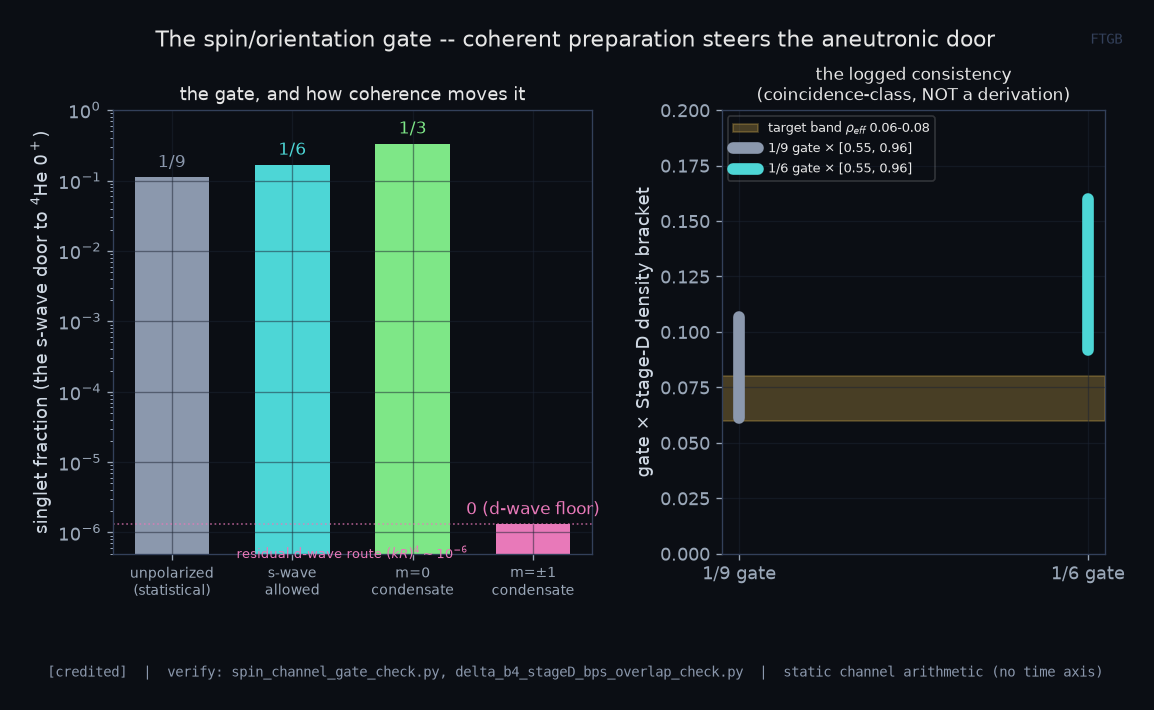
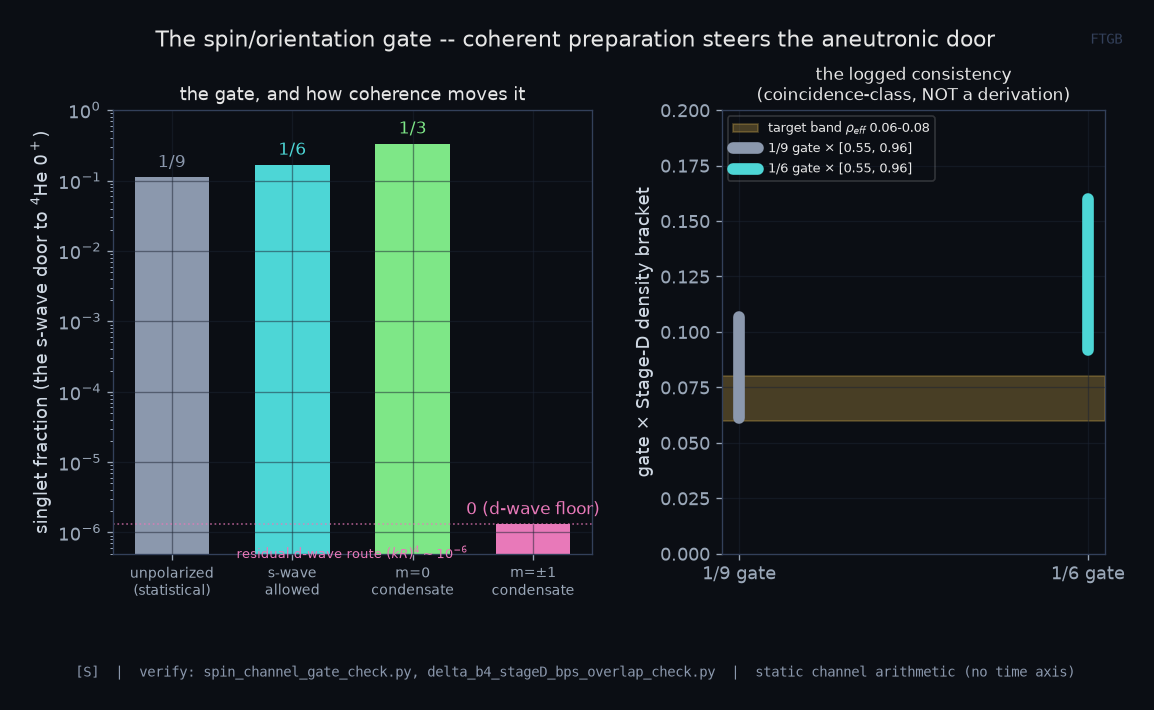
Independent audit fixes: 1 load-bearing citation error + 11 hedge/precision corrections
The rigorous multi-agent audit (re-run after the session-cap reset; 14
agents, 0 errors, scoped to the 2026-09-15 additions) independently
corroborated the inline pass (Numeric A-, Physics A, Coherence A) and
caught what self-review structurally missed:

HIGH -- a misattributed load-bearing source. "Adam-Sanchez-Guillen-
Wereszczynski (2010), PRL 105, 232001" is WRONG for the BPS Skyrme paper
(that citation is a hidden-charm-resonance PRL). The correct venue,
verified independently against arXiv + ScienceDirect, is Phys. Lett. B
691, 105 (2010) [arXiv:1001.4544]. Fixed in all 6 occurrences (both new
papers + 4 delta-program check docstrings; the error was pre-existing in
the docstrings and I had propagated it). REFERENCES.md was already clean.

MEDIUM:
* entrance-corridor: the 25pg paired the survival factor e^-760 with a
  PICOSECOND dwell, but the check computes e^-760 for an ATTOSECOND
  (a picosecond is e^-7.6e8). Corrected (the error was conservative).
* gate viz sidecar: was emitted at bare [credited], dropping the [S]
  steering identification and putting [S]/[flag] content under an
  "established physics" banner. Re-tiered [S] (the frontier claim);
  re-rendered + gallery regenerated.
* Stage-D specificity: the abstract's "computed localization to
  spin/orientation space" and the body's "dominant, gate-facing factor"
  asserted a localization/ranking the check does not perform (it lists
  THREE co-equal candidates). Reworded to "exclusion of density geometry"
[…]

Changed region(s): [[0.0312, 0.9296, 0.9671, 0.9606]]

diff --git a/gallery.html b/gallery.html
@@ -23,4 +23,4 @@ h2{font:600 15px ui-monospace,monospace;color:#9fb0c3;border-bottom:1px solid #1
 .tt{font:10.5px ui-monospace,monospace;color:#c9b26a}
 .note{font-size:11.5px;color:#8b98ad;border-top:1px solid #141a26;margin-top:8px;padding-top:7px}
 footer{margin-top:40px;color:#5b6b82;font:12px ui-monospace,monospace;border-top:1px solid #1c2433;padding-top:16px}
-</style></head><body><div class='wrap'><header><h1>&#11041; FTGB &mdash; visual gallery</h1><p>One driven Beltrami&ndash;Hopf toroidal soliton, read as field and matter wave. Every artifact below is generated from a verified model &mdash; the pipeline is <b style='color:#9fb0c3'>verified numbers &rarr; captioned artifacts &rarr; interactives</b>, and the honesty <b style='color:#9fb0c3'>tier travels with the pixel</b>.</p><p>Reproduce the whole model: <code style='color:#e879b9'>python results/verify/verify_all.py</code> &rarr; 84/84.</p><div class='legend'><b style='color:#7ee787;border-color:#7ee787'>[V]</b> verified in-repo <b style='color:#4dd6d6;border-color:#4dd6d6'>[credited]</b> textbook physics <b style='color:#ffcf5a;border-color:#ffcf5a'>[S]</b> hypothesis <b style='color:#8b98ad;border-color:#8b98ad'>[viz]</b> illustration</div></header><h2>Rendered artifacts (backed by a re-runnable check)</h2><div class='grid'><div class='card'><img src='outputs/renders/core_beltrami_torus.png' loading='lazy' alt='the coherent object: CK two-mode standing wave on the toroidal resonator'><div class='cbody'><div class='tier' style='color:#8b98ad;border-color:#8b98ad'>[viz]</div><h3>the coherent object: CK two-mode standing wave on the toroidal resonator</h3><div class='eq'>torus: x=(R+r cos v)cos u, y=(R+r cos v)sin u, z=r sin v</div><div class='vs'>verify: <a href='https://github.com/awarelook/vortor/blob/main/results/verify/ck_eigenvalues_check.py' target='_blank' rel='noopener'>ck_eigenvalues_check</a> <a href='https://github.com/awarelook/vortor/blob/main/results/verify/beat_law_across_scales_check.py' target='_blank' rel='noopener'>beat_law_across_scales_check</a> &middot; <a href='outputs/renders/core_beltrami_torus.gif' target='_blank' rel='noopener'>&#9654; loop</a></div><div class='tt'>carrier compressed; rotating view -- ILLUSTRATIVE two-mode field, NOT the computed eigenfunction</div><div class='note'>the torus geometry + the CK frequency ratio are [V]; the painted surface field is [viz] illustration.</div></div></div><div class='card'><img src='outputs/renders/core_coherence_is_regularity.png' loading='lazy' alt='coherence IS regularity: the Lamb vector u x omega null at the Beltrami state'><div class='cbody'><div class='tier' style='color:#7ee787;border-color:#7ee787'>[V]</div><h3>coherence IS regularity: the Lamb vector u x omega null at the Beltrami state</h3><div class='eq'>Beltrami: curl u = u  -&gt;  u x omega = u x u = 0 pointwise (advection is a pure gradient)</div><div class='vs'>verify: <a href='https://github.com/awarelook/vortor/blob/main/results/verify/exact_beltrami_regularity_check.py' target='_blank' rel='noopener'>exact_beltrami_regularity_check</a> <a href='https://github.com/awarelook/vortor/blob/main/results/verify/r2_identity_check.py' target='_blank' rel='noopener'>r2_identity_check</a></div><div class='tt'>static field slices (no time axis)</div><div class='note'>the self-interaction that makes fluids blow up is NULL at coherence -- the deepest [V] fact.</div></div></div><div class='card'><img src='outputs/renders/lenr_corridor.png' loading='lazy' alt='the entrance-channel assembly corridor (the one open LENR problem, sharpened)'><div class='cbody'><div class='tier' style='color:#7ee787;border-color:#7ee787'>[V]</div><h3>the entrance-channel assembly corridor (the one open LENR problem, sharpened)</h3><div class='eq'>4He: NO bound excited states (first excited 0+_2 at 20.21 MeV &gt; p+t at 19.815)</div><div class='vs'>verify: <a href='https://github.com/awarelook/vortor/blob/main/results/verify/entrance_corridor_survival_check.py' target='_blank' rel='noopener'>entrance_corridor_survival_check</a> <a href='https://github.com/awarelook/vortor/blob/main/results/verify/disposal_nonpopulation_check.py' target='_blank' rel='noopener'>disposal_nonpopulation_check</a> <a href='https://github.com/awarelook/vortor/blob/main/results/verify/delta_b4_landau_zener_bridge_check.py' target='_blank' rel='noopener'>delta_b4_landau_zener_bridge_check</a></div><div class='tt'>static level scheme (no time axis)</div><div class='note'>no state ladder exists below breakup and no slow dwell exists above it -- the corridor formulation is FORCED by census + survival arithmetic, not chosen.</div></div></div><div class='card'><img src='outputs/renders/lenr_spin_gate.png' loading='lazy' alt='the spin/orientation gate: the singlet-only s-wave door and its coherent steering'><div class='cbody'><div class='tier' style='color:#4dd6d6;border-color:#4dd6d6'>[credited]</div><h3>the spin/orientation gate: the singlet-only s-wave door and its coherent steering</h3><div class='eq'>s-wave door to 4He(0+) = the SINGLET alone: 1 of 9 spin states</div><div class='vs'>verify: <a href='https://github.com/awarelook/vortor/blob/main/results/verify/spin_channel_gate_check.py' target='_blank' rel='noopener'>spin_channel_gate_check</a> <a href='https://github.com/awarelook/vortor/blob/main/results/verify/delta_b4_stageD_bps_overlap_check.py' target='_blank' rel='noopener'>delta_b4_stageD_bps_overlap_check</a></div><div class='tt'>static channel arithmetic (no time axis)</div><div class='note'>falsifier #9: the aneutronic yield of a coherent site must DEPEND on deuteron spin preparation -- m=0 enhances up to 3x, m=+-1 closes the s-wave door. No thermal-statistical model predicts a polarization knob.</div></div></div><div class='card'><img src='outputs/renders/m16_beat_torque.png' loading='lazy' alt='two-mode beat + quadratic torque mixing (M16)'><div class='cbody'><div class='tier' style='color:#7ee787;border-color:#7ee787'>[V]</div><h3>two-mode beat + quadratic torque mixing (M16)</h3><div class='eq'>q_i = A_i cos(2 pi f_i t)</div><div class='vs'>verify: <a href='https://github.com/awarelook/vortor/blob/main/results/verify/delta_detuning_beat_check.py' target='_blank' rel='noopener'>delta_detuning_beat_check</a> <a href='https://github.com/awarelook/vortor/blob/main/results/verify/rhythm_parametric_resonance_check.py' target='_blank' rel='noopener'>rhythm_parametric_resonance_check</a> &middot; <a href='outputs/renders/m16_beat_torque.gif' target='_blank' rel='noopener'>&#9654; loop</a></div><div class='tt'>carrier ~121-125 kHz REAL; one beat period (269 us) shown; GIF playback time-compressed (a GIF second is not a physical second)</div><div class='note'>the beat is a nonlinear/energy (torque) line at f_b, not a linear field line -- see rhythm TEST 1.</div></div></div><div class='card'><img src='outputs/renders/m16_ck_comb_fingerprint.png' loading='lazy' alt='CK inharmonic carrier comb (the FTGB spectral fingerprint)'><div class='cbody'><div class='tier' style='color:#7ee787;border-color:#7ee787'>[V]</div><h3>CK inharmonic carrier comb (the FTGB spectral fingerprint)</h3><div class='eq'>boundary quantization tan x = x -&gt; roots {4.4934, 7.7253, 10.9041}</div><div class='vs'>verify: <a href='https://github.com/awarelook/vortor/blob/main/results/verify/ck_eigenvalues_check.py' target='_blank' rel='noopener'>ck_eigenvalues_check</a> <a href='https://github.com/awarelook/vortor/blob/main/results/verify/beat_law_across_scales_check.py' target='_blank' rel='noopener'>beat_law_across_scales_check</a></div><div class='tt'>static spectrum (no time axis)</div><div class='note'>a harmonic 1:2:3 comb would FALSIFY the Beltrami-carrier reading -- the sharpest fingerprint, in the linear/low-drive limit (M16: under hard drive the ratios pull anharmonically; Duffing pull separable from Arnold lock)</div></div></div><div class='card'><img src='outputs/renders/m16_duffing_backbone.png' loading='lazy' alt='Duffing backbone bending (M16 anharmonic leg)'><div class='cbody'><div class='tier' style='color:#7ee787;border-color:#7ee787'>[V]</div><h3>Duffing backbone bending (M16 anharmonic leg)</h3><div class='eq'>x&#x27;&#x27; + 2 gamma x&#x27; + w0^2 x + beta x^3 = F cos(Omega t)</div><div class='vs'>verify: <a href='https://github.com/awarelook/vortor/blob/main/results/verify/duffing_backbone_check.py' target='_blank' rel='noopener'>duffing_backbone_check</a></div><div class='tt'>static parametric plot (no time axis) -- amplitude-response curves</div><div class='note'>the Stuart-Landau heartbeat has shear c=0, so it OMITS exactly this amplitude-&gt;frequency term.</div></div></div></div><h2>Interactive models (double-click, any OS)</h2><div class='grid'><div class='card ix'><a class='play' href='index.html'>&#9654;</a><div class='cbody'><div class='tier' style='color:#4dd6d6;border-color:#4dd6d6'>[V] core / [S] frontier</div><h3><a href='index.html'>The Coherent Object</a></h3><div class='eq'>point &rarr; string &rarr; resonator &rarr; knot &rarr; dynamics</div><div class='vs'>verify: <a href='https://github.com/awarelook/vortor/blob/main/results/verify/ck_eigenvalues_check.py' target='_blank' rel='noopener'>ck_eigenvalues_check</a> <a href='https://github.com/awarelook/vortor/blob/main/results/verify/exact_beltrami_regularity_check.py' target='_blank' rel='noopener'>exact_beltrami_regularity_check</a> <a href='https://github.com/awarelook/vortor/blob/main/results/verify/topology_invariants_check.py' target='_blank' rel='noopener'>topology_invariants_check</a> <a href='https://github.com/awarelook/vortor/blob/main/results/verify/majorana_selfdual_check.py' target='_blank' rel='noopener'>majorana_selfdual_check</a></div></div></div><div class='card ix'><a class='play' href='resonator_family.html'>&#9654;</a><div class='cbody'><div class='tier' style='color:#7ee787;border-color:#7ee787'>[V]</div><h3><a href='resonator_family.html'>The Resonator Family</a></h3><div class='eq'>the one object at five resonance conditions</div><div class='vs'>verify: <a href='https://github.com/awarelook/vortor/blob/main/results/verify/ck_eigenvalues_check.py' target='_blank' rel='noopener'>ck_eigenvalues_check</a> <a href='https://github.com/awarelook/vortor/blob/main/results/verify/delta_detuning_beat_check.py' target='_blank' rel='noopener'>delta_detuning_beat_check</a> <a href='https://github.com/awarelook/vortor/blob/main/results/verify/beat_law_across_scales_check.py' target='_blank' rel='noopener'>beat_law_across_scales_check</a></div></div></div><div class='card ix'><a class='play' href='soliton3d.html'>&#9654;</a><div class='cbody'><div class='tier' style='color:#4dd6d6;border-color:#4dd6d6'>[V] geometry / [viz] field</div><h3><a href='soliton3d.html'>Soliton 3D</a></h3><div class='eq'>torus / knotted field</div><div class='vs'>verify: <a href='https://github.com/awarelook/vortor/blob/main/results/verify/topology_invariants_check.py' target='_blank' rel='noopener'>topology_invariants_check</a> <a href='https://github.com/awarelook/vortor/blob/main/results/verify/reeb_spectral_geometry_check.py' target='_blank' rel='noopener'>reeb_spectral_geometry_check</a> <a href='https://github.com/awarelook/vortor/blob/main/results/verify/ck_eigenvalues_check.py' target='_blank' rel='noopener'>ck_eigenvalues_check</a></div></div></div><div class='card ix'><a class='play' href='dynamics_lab.html'>&#9654;</a><div class='cbody'><div class='tier' style='color:#7ee787;border-color:#7ee787'>[V] @ Re&le;628</div><h3><a href='dynamics_lab.html'>Dynamics Lab</a></h3><div class='eq'>live driven dynamics</div><div class='vs'>verify: <a href='https://github.com/awarelook/vortor/blob/main/results/verify/exact_beltrami_regularity_check.py' target='_blank' rel='noopener'>exact_beltrami_regularity_check</a> <a href='https://github.com/awarelook/vortor/blob/main/results/verify/r2_driven_beltrami_attractor_check.py' target='_blank' rel='noopener'>r2_driven_beltrami_attractor_check</a> <a href='https://github.com/awarelook/vortor/blob/main/results/verify/nmode_woltjer_lp_check.py' target='_blank' rel='noopener'>nmode_woltjer_lp_check</a></div></div></div><div class='card ix'><a class='play' href='electron.html'>&#9654;</a><div class='cbody'><div class='tier' style='color:#4dd6d6;border-color:#4dd6d6'>[S] id / [V] kinematics</div><h3><a href='electron.html'>The Electron Rung</a></h3><div class='eq'>the matter-wave identification</div><div class='vs'>verify: <a href='https://github.com/awarelook/vortor/blob/main/results/verify/g2_dirac_structure_check.py' target='_blank' rel='noopener'>g2_dirac_structure_check</a> <a href='https://github.com/awarelook/vortor/blob/main/results/verify/majorana_selfdual_check.py' target='_blank' rel='noopener'>majorana_selfdual_check</a> <a href='https://github.com/awarelook/vortor/blob/main/results/verify/torque_beat_alpha_check.py' target='_blank' rel='noopener'>torque_beat_alpha_check</a></div></div></div><div class='card ix'><a class='play' href='coherence.html'>&#9654;</a><div class='cbody'><div class='tier' style='color:#7ee787;border-color:#7ee787'>[V]</div><h3><a href='coherence.html'>The Coherence Stack</a></h3><div class='eq'>coherence is regularity</div><div class='vs'>verify: <a href='https://github.com/awarelook/vortor/blob/main/results/verify/exact_beltrami_regularity_check.py' target='_blank' rel='noopener'>exact_beltrami_regularity_check</a> <a href='https://github.com/awarelook/vortor/blob/main/results/verify/carrier_chirality_lock_check.py' target='_blank' rel='noopener'>carrier_chirality_lock_check</a> <a href='https://github.com/awarelook/vortor/blob/main/results/verify/nmode_woltjer_lp_check.py' target='_blank' rel='noopener'>nmode_woltjer_lp_check</a></div></div></div></div><footer>Generated from the render <code>.meta.json</code> sidecars &middot; <a href='https://github.com/awarelook/vortor'>github.com/awarelook/vortor</a> &middot; no claim exceeds its tier; no number is fabricated; settled-negatives are kept.</footer></div></body></html>
+</style></head><body><div class='wrap'><header><h1>&#11041; FTGB &mdash; visual gallery</h1><p>One driven Beltrami&ndash;Hopf toroidal soliton, read as field and matter wave. Every artifact below is generated from a verified model &mdash; the pipeline is <b style='color:#9fb0c3'>verified numbers &rarr; captioned artifacts &rarr; interactives</b>, and the honesty <b style='color:#9fb0c3'>tier travels with the pixel</b>.</p><p>Reproduce the whole model: <code style='color:#e879b9'>python results/verify/verify_all.py</code> &rarr; 84/84.</p><div class='legend'><b style='color:#7ee787;border-color:#7ee787'>[V]</b> verified in-repo <b style='color:#4dd6d6;border-color:#4dd6d6'>[credited]</b> textbook physics <b style='color:#ffcf5a;border-color:#ffcf5a'>[S]</b> hypothesis <b style='color:#8b98ad;border-color:#8b98ad'>[viz]</b> illustration</div></header><h2>Rendered artifacts (backed by a re-runnable check)</h2><div class='grid'><div class='card'><img src='outputs/renders/core_beltrami_torus.png' loading='lazy' alt='the coherent object: CK two-mode standing wave on the toroidal resonator'><div class='cbody'><div class='tier' style='color:#8b98ad;border-color:#8b98ad'>[viz]</div><h3>the coherent object: CK two-mode standing wave on the toroidal resonator</h3><div class='eq'>torus: x=(R+r cos v)cos u, y=(R+r cos v)sin u, z=r sin v</div><div class='vs'>verify: <a href='https://github.com/awarelook/vortor/blob/main/results/verify/ck_eigenvalues_check.py' target='_blank' rel='noopener'>ck_eigenvalues_check</a> <a href='https://github.com/awarelook/vortor/blob/main/results/verify/beat_law_across_scales_check.py' target='_blank' rel='noopener'>beat_law_across_scales_check</a> &middot; <a href='outputs/renders/core_beltrami_torus.gif' target='_blank' rel='noopener'>&#9654; loop</a></div><div class='tt'>carrier compressed; rotating view -- ILLUSTRATIVE two-mode field, NOT the computed eigenfunction</div><div class='note'>the torus geometry + the CK frequency ratio are [V]; the painted surface field is [viz] illustration.</div></div></div><div class='card'><img src='outputs/renders/core_coherence_is_regularity.png' loading='lazy' alt='coherence IS regularity: the Lamb vector u x omega null at the Beltrami state'><div class='cbody'><div class='tier' style='color:#7ee787;border-color:#7ee787'>[V]</div><h3>coherence IS regularity: the Lamb vector u x omega null at the Beltrami state</h3><div class='eq'>Beltrami: curl u = u  -&gt;  u x omega = u x u = 0 pointwise (advection is a pure gradient)</div><div class='vs'>verify: <a href='https://github.com/awarelook/vortor/blob/main/results/verify/exact_beltrami_regularity_check.py' target='_blank' rel='noopener'>exact_beltrami_regularity_check</a> <a href='https://github.com/awarelook/vortor/blob/main/results/verify/r2_identity_check.py' target='_blank' rel='noopener'>r2_identity_check</a></div><div class='tt'>static field slices (no time axis)</div><div class='note'>the self-interaction that makes fluids blow up is NULL at coherence -- the deepest [V] fact.</div></div></div><div class='card'><img src='outputs/renders/lenr_corridor.png' loading='lazy' alt='the entrance-channel assembly corridor (the one open LENR problem, sharpened)'><div class='cbody'><div class='tier' style='color:#7ee787;border-color:#7ee787'>[V]</div><h3>the entrance-channel assembly corridor (the one open LENR problem, sharpened)</h3><div class='eq'>4He: NO bound excited states (first excited 0+_2 at 20.21 MeV &gt; p+t at 19.815)</div><div class='vs'>verify: <a href='https://github.com/awarelook/vortor/blob/main/results/verify/entrance_corridor_survival_check.py' target='_blank' rel='noopener'>entrance_corridor_survival_check</a> <a href='https://github.com/awarelook/vortor/blob/main/results/verify/disposal_nonpopulation_check.py' target='_blank' rel='noopener'>disposal_nonpopulation_check</a> <a href='https://github.com/awarelook/vortor/blob/main/results/verify/delta_b4_landau_zener_bridge_check.py' target='_blank' rel='noopener'>delta_b4_landau_zener_bridge_check</a></div><div class='tt'>static level scheme (no time axis)</div><div class='note'>no state ladder exists below breakup and no slow dwell exists above it -- the corridor formulation is FORCED by census + survival arithmetic, not chosen.</div></div></div><div class='card'><img src='outputs/renders/lenr_spin_gate.png' loading='lazy' alt='the spin/orientation gate: the singlet-only s-wave door and its coherent steering'><div class='cbody'><div class='tier' style='color:#ffcf5a;border-color:#ffcf5a'>[S]</div><h3>the spin/orientation gate: the singlet-only s-wave door and its coherent steering</h3><div class='eq'>s-wave door to 4He(0+) = the SINGLET alone: 1 of 9 spin states</div><div class='vs'>verify: <a href='https://github.com/awarelook/vortor/blob/main/results/verify/spin_channel_gate_check.py' target='_blank' rel='noopener'>spin_channel_gate_check</a> <a href='https://github.com/awarelook/vortor/blob/main/results/verify/delta_b4_stageD_bps_overlap_check.py' target='_blank' rel='noopener'>delta_b4_stageD_bps_overlap_check</a></div><div class='tt'>static channel arithmetic (no time axis)</div><div class='note'>falsifier #9: the aneutronic yield of a coherent site must DEPEND on deuteron spin preparation -- m=0 enhances up to 3x, m=+-1 closes the s-wave door. No thermal-statistical model predicts a polarization knob.</div></div></div><div class='card'><img src='outputs/renders/m16_beat_torque.png' loading='lazy' alt='two-mode beat + quadratic torque mixing (M16)'><div class='cbody'><div class='tier' style='color:#7ee787;border-color:#7ee787'>[V]</div><h3>two-mode beat + quadratic torque mixing (M16)</h3><div class='eq'>q_i = A_i cos(2 pi f_i t)</div><div class='vs'>verify: <a href='https://github.com/awarelook/vortor/blob/main/results/verify/delta_detuning_beat_check.py' target='_blank' rel='noopener'>delta_detuning_beat_check</a> <a href='https://github.com/awarelook/vortor/blob/main/results/verify/rhythm_parametric_resonance_check.py' target='_blank' rel='noopener'>rhythm_parametric_resonance_check</a> &middot; <a href='outputs/renders/m16_beat_torque.gif' target='_blank' rel='noopener'>&#9654; loop</a></div><div class='tt'>carrier ~121-125 kHz REAL; one beat period (269 us) shown; GIF playback time-compressed (a GIF second is not a physical second)</div><div class='note'>the beat is a nonlinear/energy (torque) line at f_b, not a linear field line -- see rhythm TEST 1.</div></div></div><div class='card'><img src='outputs/renders/m16_ck_comb_fingerprint.png' loading='lazy' alt='CK inharmonic carrier comb (the FTGB spectral fingerprint)'><div class='cbody'><div class='tier' style='color:#7ee787;border-color:#7ee787'>[V]</div><h3>CK inharmonic carrier comb (the FTGB spectral fingerprint)</h3><div class='eq'>boundary quantization tan x = x -&gt; roots {4.4934, 7.7253, 10.9041}</div><div class='vs'>verify: <a href='https://github.com/awarelook/vortor/blob/main/results/verify/ck_eigenvalues_check.py' target='_blank' rel='noopener'>ck_eigenvalues_check</a> <a href='https://github.com/awarelook/vortor/blob/main/results/verify/beat_law_across_scales_check.py' target='_blank' rel='noopener'>beat_law_across_scales_check</a></div><div class='tt'>static spectrum (no time axis)</div><div class='note'>a harmonic 1:2:3 comb would FALSIFY the Beltrami-carrier reading -- the sharpest fingerprint, in the linear/low-drive limit (M16: under hard drive the ratios pull anharmonically; Duffing pull separable from Arnold lock)</div></div></div><div class='card'><img src='outputs/renders/m16_duffing_backbone.png' loading='lazy' alt='Duffing backbone bending (M16 anharmonic leg)'><div class='cbody'><div class='tier' style='color:#7ee787;border-color:#7ee787'>[V]</div><h3>Duffing backbone bending (M16 anharmonic leg)</h3><div class='eq'>x&#x27;&#x27; + 2 gamma x&#x27; + w0^2 x + beta x^3 = F cos(Omega t)</div><div class='vs'>verify: <a href='https://github.com/awarelook/vortor/blob/main/results/verify/duffing_backbone_check.py' target='_blank' rel='noopener'>duffing_backbone_check</a></div><div class='tt'>static parametric plot (no time axis) -- amplitude-response curves</div><div class='note'>the Stuart-Landau heartbeat has shear c=0, so it OMITS exactly this amplitude-&gt;frequency term.</div></div></div></div><h2>Interactive models (double-click, any OS)</h2><div class='grid'><div class='card ix'><a class='play' href='index.html'>&#9654;</a><div class='cbody'><div class='tier' style='color:#4dd6d6;border-color:#4dd6d6'>[V] core / [S] frontier</div><h3><a href='index.html'>The Coherent Object</a></h3><div class='eq'>point &rarr; string &rarr; resonator &rarr; knot &rarr; dynamics</div><div class='vs'>verify: <a href='https://github.com/awarelook/vortor/blob/main/results/verify/ck_eigenvalues_check.py' target='_blank' rel='noopener'>ck_eigenvalues_check</a> <a href='https://github.com/awarelook/vortor/blob/main/results/verify/exact_beltrami_regularity_check.py' target='_blank' rel='noopener'>exact_beltrami_regularity_check</a> <a href='https://github.com/awarelook/vortor/blob/main/results/verify/topology_invariants_check.py' target='_blank' rel='noopener'>topology_invariants_check</a> <a href='https://github.com/awarelook/vortor/blob/main/results/verify/majorana_selfdual_check.py' target='_blank' rel='noopener'>majorana_selfdual_check</a></div></div></div><div class='card ix'><a class='play' href='resonator_family.html'>&#9654;</a><div class='cbody'><div class='tier' style='color:#7ee787;border-color:#7ee787'>[V]</div><h3><a href='resonator_family.html'>The Resonator Family</a></h3><div class='eq'>the one object at five resonance conditions</div><div class='vs'>verify: <a href='https://github.com/awarelook/vortor/blob/main/results/verify/ck_eigenvalues_check.py' target='_blank' rel='noopener'>ck_eigenvalues_check</a> <a href='https://github.com/awarelook/vortor/blob/main/results/verify/delta_detuning_beat_check.py' target='_blank' rel='noopener'>delta_detuning_beat_check</a> <a href='https://github.com/awarelook/vortor/blob/main/results/verify/beat_law_across_scales_check.py' target='_blank' rel='noopener'>beat_law_across_scales_check</a></div></div></div><div class='card ix'><a class='play' href='soliton3d.html'>&#9654;</a><div class='cbody'><div class='tier' style='color:#4dd6d6;border-color:#4dd6d6'>[V] geometry / [viz] field</div><h3><a href='soliton3d.html'>Soliton 3D</a></h3><div class='eq'>torus / knotted field</div><div class='vs'>verify: <a href='https://github.com/awarelook/vortor/blob/main/results/verify/topology_invariants_check.py' target='_blank' rel='noopener'>topology_invariants_check</a> <a href='https://github.com/awarelook/vortor/blob/main/results/verify/reeb_spectral_geometry_check.py' target='_blank' rel='noopener'>reeb_spectral_geometry_check</a> <a href='https://github.com/awarelook/vortor/blob/main/results/verify/ck_eigenvalues_check.py' target='_blank' rel='noopener'>ck_eigenvalues_check</a></div></div></div><div class='card ix'><a class='play' href='dynamics_lab.html'>&#9654;</a><div class='cbody'><div class='tier' style='color:#7ee787;border-color:#7ee787'>[V] @ Re&le;628</div><h3><a href='dynamics_lab.html'>Dynamics Lab</a></h3><div class='eq'>live driven dynamics</div><div class='vs'>verify: <a href='https://github.com/awarelook/vortor/blob/main/results/verify/exact_beltrami_regularity_check.py' target='_blank' rel='noopener'>exact_beltrami_regularity_check</a> <a href='https://github.com/awarelook/vortor/blob/main/results/verify/r2_driven_beltrami_attractor_check.py' target='_blank' rel='noopener'>r2_driven_beltrami_attractor_check</a> <a href='https://github.com/awarelook/vortor/blob/main/results/verify/nmode_woltjer_lp_check.py' target='_blank' rel='noopener'>nmode_woltjer_lp_check</a></div></div></div><div class='card ix'><a class='play' href='electron.html'>&#9654;</a><div class='cbody'><div class='tier' style='color:#4dd6d6;border-color:#4dd6d6'>[S] id / [V] kinematics</div><h3><a href='electron.html'>The Electron Rung</a></h3><div class='eq'>the matter-wave identification</div><div class='vs'>verify: <a href='https://github.com/awarelook/vortor/blob/main/results/verify/g2_dirac_structure_check.py' target='_blank' rel='noopener'>g2_dirac_structure_check</a> <a href='https://github.com/awarelook/vortor/blob/main/results/verify/majorana_selfdual_check.py' target='_blank' rel='noopener'>majorana_selfdual_check</a> <a href='https://github.com/awarelook/vortor/blob/main/results/verify/torque_beat_alpha_check.py' target='_blank' rel='noopener'>torque_beat_alpha_check</a></div></div></div><div class='card ix'><a class='play' href='coherence.html'>&#9654;</a><div class='cbody'><div class='tier' style='color:#7ee787;border-color:#7ee787'>[V]</div><h3><a href='coherence.html'>The Coherence Stack</a></h3><div class='eq'>coherence is regularity</div><div class='vs'>verify: <a href='https://github.com/awarelook/vortor/blob/main/results/verify/exact_beltrami_regularity_check.py' target='_blank' rel='noopener'>exact_beltrami_regularity_check</a> <a href='https://github.com/awarelook/vortor/blob/main/results/verify/carrier_chirality_lock_check.py' target='_blank' rel='noopener'>carrier_chirality_lock_check</a> <a href='https://github.com/awarelook/vortor/blob/main/results/verify/nmode_woltjer_lp_check.py' target='_blank' rel='noopener'>nmode_woltjer_lp_check</a></div></div></div></div><footer>Generated from the render <code>.meta.json</code> sidecars &middot; <a href='https://github.com/awarelook/vortor'>github.com/awarelook/vortor</a> &middot; no claim exceeds its tier; no number is fabricated; settled-negatives are kept.</footer></div></body></html>

diff --git a/engine/viz/scenes_lenr.py b/engine/viz/scenes_lenr.py
@@ -99,7 +99,9 @@ class SpinGateScene:
     def metadata(self):
         return make_metadata(
             model="the spin/orientation gate: the singlet-only s-wave door and its coherent steering",
-            tier="[credited]",
+            tier="[S]",   # the CG fractions are [credited] arithmetic, but the poster's load-bearing claim is
+                          # the [S] STEERING mechanism (+ the [flag] consistency) -- tag to the frontier tier,
+                          # never present [S]/[flag] content under a bare [credited] banner (verify link carries the arithmetic)
             verify_scripts=["spin_channel_gate_check.py", "delta_b4_stageD_bps_overlap_check.py"],
             equations=["s-wave door to 4He(0+) = the SINGLET alone: 1 of 9 spin states",
                        "condensate pair |1,m>x|1,m>: singlet fraction = 1/3 (m=0), 0 exactly (m=+-1)",

diff --git a/results/verify/delta_b4_stageC_nearbps_check.py b/results/verify/delta_b4_stageC_nearbps_check.py
@@ -27,7 +27,7 @@ Wereszczynski 2010) places the physical binding exactly where it belongs.
             program's honest end: the reduced-CPU route is complete and the path is proven; the production
             number is handed off to a specific, credible model + run. No Delta value fabricated.
 
-Refs: Adam, Sanchez-Guillen & Wereszczynski (2010), PRL 105, 232001 (BPS Skyrme); Adam, Naya, Sanchez-Guillen,
+Refs: Adam, Sanchez-Guillen & Wereszczynski (2010), Phys. Lett. B 691, 105 [arXiv:1001.4544] (BPS Skyrme); Adam, Naya, Sanchez-Guillen,
 Wereszczynski (2013), PRL 111, 232501 / PRC 88, 054313 (near-BPS nuclear binding energies ~1%); Adkins-Nappi-
 Witten (1983), NPB228, 552 (standard-Skyrme overbinding). numpy only, deterministic.
 Run: python results/verify/delta_b4_stageC_nearbps_check.py

diff --git a/results/verify/delta_b4_stageB_endpoints_check.py b/results/verify/delta_b4_stageB_endpoints_check.py
@@ -28,7 +28,7 @@ computed reason: the reduced model cannot resolve a ~1%-of-release gap when its 
 ~9x. That IS the deliverable the plan promised (a bracket + the named systematic + the precise handoff).
 
 Refs: Adkins, Nappi & Witten (1983), Nucl. Phys. B228, 552 (calibration + overbinding); Houghton, Manton &
-Sutcliffe (1998), NPB510, 507; Adam, Sanchez-Guillen & Wereszczynski (2010), PRL 105, 232001 (BPS Skyrme,
+Sutcliffe (1998), NPB510, 507; Adam, Sanchez-Guillen & Wereszczynski (2010), Phys. Lett. B 691, 105 [arXiv:1001.4544] (BPS Skyrme,
 resolves overbinding). numpy only, deterministic. Run: python results/verify/delta_b4_stageB_endpoints_check.py
 """
 import numpy as np

diff --git a/results/verify/delta_bps_perturbative_structure_check.py b/results/verify/delta_bps_perturbative_structure_check.py
@@ -33,7 +33,7 @@ near-BPS parameters + the moduli-space matrix element -- a real calculation, but
 full-field HPC relaxation). No Delta value is fabricated. Full roadmap of candidate routes:
 DELTA_BREAKTHROUGH_CONFIGURATIONS_2026-09-14.md.
 
-Refs: Adam, Sanchez-Guillen & Wereszczynski (2010), PRL 105, 232001 (BPS Skyrme integrability);
+Refs: Adam, Sanchez-Guillen & Wereszczynski (2010), Phys. Lett. B 691, 105 [arXiv:1001.4544] (BPS Skyrme integrability);
 Speight (2014), J. Geom. Phys. (BPS moduli / compactons); Gudnason & Halcrow (2020) (near-BPS spectra).
 numpy only, deterministic. Run: python results/verify/delta_bps_perturbative_structure_check.py
 """

diff --git a/results/verify/delta_b4_stageD_bps_overlap_check.py b/results/verify/delta_b4_stageD_bps_overlap_check.py
@@ -41,7 +41,7 @@ scoping claim (the discipline is symmetric: the audit gets audited).
   configurations are unrelaxed analytic compactons; no relative-orientation average is performed. The
   external near-BPS run remains the production number.
 
-Refs: Adam, Sanchez-Guillen & Wereszczynski (2010), PRL 105, 232001; Adam-Naya-Sanchez-Guillen-Wereszczynski
+Refs: Adam, Sanchez-Guillen & Wereszczynski (2010), Phys. Lett. B 691, 105 [arXiv:1001.4544]; Adam-Naya-Sanchez-Guillen-Wereszczynski
 (2013), PRL 111, 232501; Speight (2014). numpy only, deterministic.
 Run: python results/verify/delta_b4_stageD_bps_overlap_check.py
 """

diff --git a/results/TIER_LEDGER.md b/results/TIER_LEDGER.md
@@ -53,7 +53,7 @@ connected — a clue may later lead somewhere). What is removed: **only supersed
 
 | Item | Tier | What would resolve it → **honest status** |
 |---|---|---|
-| **Mass hierarchy** (`m_p/m_e=1836`, `m_e/m_ν~10⁷`) | `[V-us]` + `[credited: peer-reviewed TUFT]` | The Nielsen–TUFT mechanism (Proca–Beltrami `m=ħλ/c`) carries the hierarchy in an analytic-torsion exp-dressing. The quark tower completes 6/6 masses to <0.5% as **five parameter-free ratio predictions** from a single scale (the Higgs VEV): every coefficient is a closed-form ζ-value, so the ratios carry no continuous freedom (`nielsen_mass_completion_check`). Its **topological inputs are reproduced in-repo** `[V-us]` — `ℓ=6` (the trefoil `(2,3)`-torus-knot surface self-linking, Gauss integral), `√3/2=cos(π/6)`, and the `S³` Ray–Singer determinant `ζ'(-2)=-ζ(3)/4π²` (`nielsen_topology_forcing_check`). The one framework piece is the **physical identification map** (knot↔generation): a single natural ordering rule (generation = knot by crossing number), monotone with mass, predictive (gen-4=figure-8) — a peer-reviewed framework hypothesis (particle=knot), not a math theorem; open sub-question: **why exactly 3 generations** (`nielsen_identification_map_check`; full assessment `NIELSEN_MASS_MAP_ASSESSMENT_2026-09-11.md`). The **π-power question is resolved**: `ζ_B(s)=ζ(s−2)−ζ(s)` forces the `n²` coefficient to `ζ'(-2)=-ζ(3)/4π²` (`curl_spectral_zeta_pi_power_check`). **Neutrino: Majorana** (self-dual `H=0` = both suppressed mass and `C`-invariance; `0νββ` decides). `6π⁵≈m_p/m_e` (0.0019%) is a logged clue; numerology barred. |
+| **Mass hierarchy** (`m_p/m_e=1836`, `m_e/m_ν~10⁷`) | `[V-us]` + `[credited: peer-reviewed TUFT]` | The Nielsen–TUFT mechanism (Proca–Beltrami `m=ħλ/c`) carries the hierarchy in an analytic-torsion exp-dressing. The quark tower completes all six masses as **five parameter-free ratio predictions** from a single scale (the Higgs VEV), 5/5 within ~1% of PDG (<0.5% of Nielsen's table): every coefficient is a closed-form ζ-value, so the ratios carry no continuous freedom (`nielsen_mass_completion_check`). Its **topological inputs are reproduced in-repo** `[V-us]` — `ℓ=6` (the trefoil `(2,3)`-torus-knot surface self-linking, Gauss integral), `√3/2=cos(π/6)`, and the `S³` Ray–Singer determinant `ζ'(-2)=-ζ(3)/4π²` (`nielsen_topology_forcing_check`). The one framework piece is the **physical identification map** (knot↔generation): a single natural ordering rule (generation = knot by crossing number), monotone with mass, predictive (gen-4=figure-8) — a peer-reviewed framework hypothesis (particle=knot), not a math theorem; open sub-question: **why exactly 3 generations** (`nielsen_identification_map_check`; full assessment `NIELSEN_MASS_MAP_ASSESSMENT_2026-09-11.md`). The **π-power question is resolved**: `ζ_B(s)=ζ(s−2)−ζ(s)` forces the `n²` coefficient to `ζ'(-2)=-ζ(3)/4π²` (`curl_spectral_zeta_pi_power_check`). **Neutrino: Majorana** (self-dual `H=0` = both suppressed mass and `C`-invariance; `0νββ` decides). `6π⁵≈m_p/m_e` (0.0019%) is a logged clue; numerology barred. |
 | **α value** | `[flag]` / settled-neg | On the correct object — a standing-wave resonator in the medium + point defect, not a loop (`alpha_resonator_imbalance_check`) — the electro/magneto imbalance is **0** from the mode (equipartition), **0** from the medium (non-dispersive, canon §I), and **= α only via inserted `e`** (defect = `r_e/λ_C`, circular). And **α runs** — `1/137.036` is the IR endpoint, not a fixed target; the theory's `K_PV(q²)` dielectric flow *is* the running. **Frontier reduced to ONE quantity:** the running coupling's *anchor* = the charge MAGNITUDE `e`. Topology quantizes charge (integer winding/Hopf); the magnitude/scale is **unpinned** — the shared elementary-electron frontier. Winding `ι≈1` not 137; typed by beat/impedance/precession; never derived. Do **not** fabricate. |
 | **g = 2** | `[S]`/open | Show the soliton's quantization is a minimally-coupled Dirac field (Hopf→spin-½ is credited; g=2 needs the full Dirac structure). From inside the theory (`g2_skyrme_composite_check`): FTGB's own B=1 Skyrmion (M10) *does* have a computed moment — Skyrme quantization gives `μ_p/μ_n=−3/2` (~3% of experiment), a **composite** g-factor (5.59), **not** g=2. So the extended soliton yields composite moments (correct for the nucleon); g=2 (electron) is the pointlike/elementary limit = the **same frontier as α**. The Dirac bispinor *algebra* is **internal** (`g2_dirac_structure`) — `±λ`=Weyl pair, `θ_χ`=`γ₅` chiral rotation, mirror=`C`, Hopf=spin-½ → g=2 is the *minimal-coupling limit* of this internal structure, reduced to one criterion: `π₁`(charge)/`π₃`(spin) locking (satisfied by the elementary lepton, broken by composites). **Derives g=2's meaning internally**; the lock itself stays `[S]`, and the α *value* stays the frontier. |
 | **Matter-wave dictionary** (mass=whirl, charge=torsion-holonomy; C/Majorana) | `[S,computed]` | Contact with the QFT operators. **`[S]` by construction:** an *internal-consistency* check of FTGB's own dictionary — behaves *structurally like* C; not the QFT `C=iγ²γ⁰` (no Dirac spinor in the verified content). |
@@ -86,8 +86,8 @@ connected — a clue may later lead somewhere). What is removed: **only supersed
   circular, so the frontier reduces to ONE quantity: the running coupling's *anchor* = the unpinned charge
   magnitude (topology quantizes charge but not its magnitude). **g=2's meaning is derived internally** (the ±λ
   Weyl / θ_χ=γ₅ / C / Hopf-spin-½ Dirac algebra; g=2 = its minimal-coupling limit, reduced to the π₁/π₃ lock — the
-  lock itself stays `[S]`). The **mass hierarchy** is not numerology-circular: the **quark tower completes 6/6
-  masses to <0.5% as FIVE parameter-free ratio predictions** from a *single* continuous scale (the Higgs VEV) +
+  lock itself stays `[S]`). The **mass hierarchy** is not numerology-circular: the **quark tower completes all six
+  masses as FIVE parameter-free ratio predictions (5/5 within ~1% PDG, <0.5% of Nielsen's table)** from a *single* continuous scale (the Higgs VEV) +
   closed-form ζ-value coefficients + knot invariants (`nielsen_mass_completion_check.py`, `[V-us]` arithmetic), with
   the topological inputs (`ℓ=6`, `√3/2=cos π/6`, `ζ'(-2)=-ζ(3)/4π²`) reproduced in-repo `[V-us]`
   (`nielsen_topology_forcing_check.py`). The residual is the framework's **physical identification map**

diff --git a/paper/FTGB_TEN_PAGE_2026-09-15.md b/paper/FTGB_TEN_PAGE_2026-09-15.md
@@ -32,7 +32,7 @@ much it has earned, and every labeled claim can be re-run by a stranger with one
 
 Claims are tiered **[V]** / **[credited]** / **[S]** / **[flag]** / **settled-negative**, and the tier travels
 with the claim into every document, interactive, and rendered figure. Three practices distinguish the project:
-(i) **settled-negatives are wins** — a computed refutation is kept, cited, and celebrated (twelve of them below);
+(i) **settled-negatives are wins** — a computed refutation is kept, cited, and celebrated (a dozen — fully enumerated in the 25-page paper §9);
 (ii) **coincidences are computed and logged, never promoted** (`results/COINCIDENCE_LEDGER.md`); (iii) **the
 discipline is symmetric** — under-claiming is policed as hard as over-claiming, and this week's record includes
 corrections in both directions, including two of the project's own audit findings refuted by computation.
@@ -112,19 +112,22 @@ between `J=0` states.
 
 **The corridor (the sharpened open problem).** ⁴He has **no bound excited states** (first excited 0⁺₂ at
 20.21 MeV sits *above* the p+t threshold at 19.815), so no state-ladder exists below breakup; and any dwell
-*above* threshold dies in `t_½ ≈ 9×10⁻²² s`. Therefore the only aneutronic route is a **dissipative
+*above* threshold dies in `t_½ ≈ 9×10⁻²² s`. Therefore the only γ-quiet, collective-disposal aneutronic route is a **dissipative
 sub-breakup corridor**: the assembly must shed the full 23.85 MeV *while it happens*, never pausing, never
 crossing p+t (`entrance_corridor_survival_check`). Two data bars travel with it — *existence*: beat the
 measured `1e-7`; *sufficiency*: the observed dearth `n/⁴He ≤ 1e-9`, which is `Δ_suff = 5.47×` the dominance
 threshold and, with the Cauchy–Schwarz ceiling `Δ = 23.85 MeV × ρ_eff ≤ 23.85 MeV`, **derives a constraint**:
-`β·|dF| ≤ 0.874 MeV/fm` — *the data itself forces the crossing into the slow/soft corner*.
+`β·|dF| ≤ 0.874 MeV/fm` — *the data itself forces the crossing into the slow/soft corner* (conditional on the
+`[S]` identification of d+d→⁴He-vs-breakup as an adiabatic Landau–Zener crossing — an FTGB hypothesis, not
+established nuclear physics).
 
 **Stage D (where the smallness cannot come from).** On the analytic BPS compacton (`cos(ξ/2) = r/R`;
 Adam–Sánchez-Guillén–Wereszczyński 2010), first-order perturbation theory is *half*-tractable — the L₂ piece
 log-diverges at the compacton boundary (computed; a known near-BPS subtlety), the L₄ piece is finite — and the
 density-geometry overlap of the B=4 ball with the 2×B=2 dumbbell is **[0.55, 0.96]** at every crossing
 geometry. Since the target regime needs `ρ_eff ~ 0.07`, **density geometry cannot supply the suppression: it
-must live in orientation/phase space** (`delta_b4_stageD_bps_overlap_check`).
+must live in what the density proxy omits — orientation/phase structure, the moduli metric, and the
+regularized L₂-boundary physics** (`delta_b4_stageD_bps_overlap_check`).
 
 **The gate (the quantum arithmetic of that space).** The s-wave door to ⁴He(0⁺) is the **spin singlet alone**
 — 1 of 9 d+d spin states (statistical gate 1/9). And the gate is **steerable**: a deuteron pair drawn from a
@@ -183,7 +186,7 @@ Chandrasekhar & Kendall, ApJ **126**, 457 (1957) · Woltjer, PNAS **44**, 489 (1
 322 (1927) · Finkelstein & Rubinstein, JMP **9**, 1762 (1968) · Wilczek & Zee, PRL **51**, 2250 (1983) ·
 Etnyre & Ghrist, Nonlinearity **13**, 441 (2000) · Church & Weneser, Phys. Rev. **103**, 1035 (1956) ·
 Wilkinson & Cecil, PRC **31**, 2036 (1985) · Barnes, Baskerville & Turok, PRL **79**, 367 (1997) ·
-Adam, Sánchez-Guillén & Wereszczyński, PRL **105**, 232001 (2010) · Adam–Naya–Sánchez-Guillén–Wereszczyński,
+Adam, Sánchez-Guillén & Wereszczyński, Phys. Lett. B **691**, 105 (2010) [arXiv:1001.4544] · Adam–Naya–Sánchez-Guillén–Wereszczyński,
 PRL **111**, 232501 (2013) · Kulsrud, Furth, Valeo & Goldhaber, PRL **49**, 1248 (1982) · Miles et al.
 (He/heat correlation, as measurement) · full tiered bibliography: `REFERENCES.md`.
 

diff --git a/results/BEST_AVAILABLE_THEORY_2026-09-14.md b/results/BEST_AVAILABLE_THEORY_2026-09-14.md
@@ -3,7 +3,7 @@
 **Author:** Nathaniel Hanks · **Date:** 2026-09-14 · **Provenance:** a six-dimension jewel audit
 (completeness / coherence / derivation depth / explanation quality / sourcing / theoretical advancement),
 each dimension run as an independent adversarial pass, findings verified line-by-line against the files,
-then folded. Harness after the fold: `verify_all.py` → **84/84** (82nd: the torus_project_repo expedition; 83rd: Stage D, both 2026-09-15).
+then folded. Harness after the fold: `verify_all.py` → **84/84** (82nd: the torus expedition; 83rd: Stage D; 84th: the spin gate — all 2026-09-15).
 
 This document does three things: (1) states the **real working theory** — what the jewel actually is when
 every claim is held at its earned tier; (2) records the **audit outcome** including the forgotten-batch
@@ -83,7 +83,7 @@ is nothing.
 
 ## 3. The forgotten batch — captured, retagged, or backlogged
 
-**Captured (new/extended checks, 78 → 81; → 83 on 09-15):**
+**Captured (new/extended checks, 78 → 81 on 09-14; → 84 on 09-15 — beat-tunneling 82nd, Stage D 83rd, the spin gate 84th):**
 - `multibody_sync_capture_check.py` — the Grand Synthesis Part-D orphan `[V]`s recomputed: Kuramoto N=800
   Lorentzian onset **P = 1.20** (the synthesis's quoted ~1.2 reproduced), r(2K_c) = 0.69 (mean-field 0.71);
   Aizawa **λ_max = 0.094 > 0** (Benettin; literature band 0.10–0.124).
